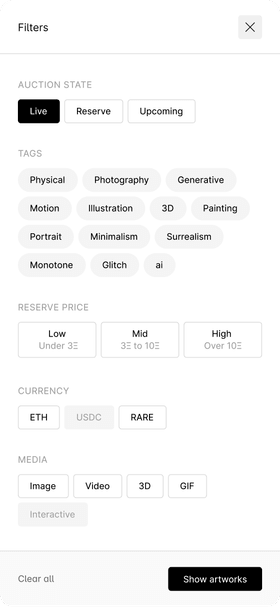
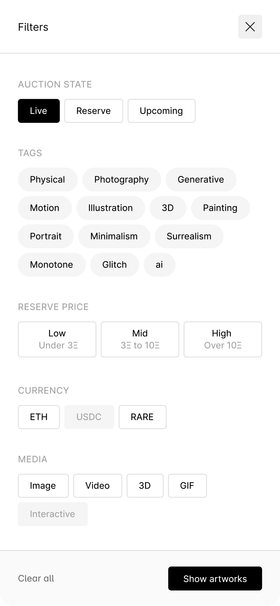
SuperRare: sharper filters phone (3x, full colour)

diff --git a/site/superrare.html b/site/superrare.html
@@ -327,7 +327,7 @@
       <img class="" style="--x:50%;--y:0;top:8%;height:92%;border-radius:1% 1% 0 0 / 1.07% 1.07% 0 0" src="img/sr2/s9-explore-1x.jpg?v=2" srcset="img/sr2/s9-explore-1x.jpg?v=2 800w, img/sr2/s9-explore-2x.jpg?v=2 2400w" sizes="(max-width: 640px) 90vw, 42vw" alt="Explore with filters" loading="lazy" decoding="async">
     </div>
     <div class="media-pair">
-      <div class="pn pn--half"><img class="" style="--x:50%;--y:50%;height:82%" src="img/sr2/s9-filters-1x.png" srcset="img/sr2/s9-filters-1x.png 280w, img/sr2/s9-filters-2x.png 560w" sizes="(max-width: 640px) 90vw, 50vw" alt="Explore filters on mobile" loading="lazy" decoding="async"></div>
+      <div class="pn pn--half"><img class="" style="--x:50%;--y:50%;height:82%" src="img/sr2/s9-filters-1x.png?v=2" srcset="img/sr2/s9-filters-1x.png?v=2 280w, img/sr2/s9-filters-2x.png?v=2 840w" sizes="(max-width: 640px) 50vw, 17vw" alt="Explore filters on mobile" loading="lazy" decoding="async"></div>
       <div class="pn pn--half"><div class="notif" style="--x:50%;--y:50%;width:63.9%;aspect-ratio:311 / 193.73"><span class="notif__avatar" aria-hidden="true"><img src="img/sr2/s9-avatar.png" alt=""><i></i></span><img class="notif__card" src="img/sr2/s9-notif-1x.png?v=2" srcset="img/sr2/s9-notif-1x.png?v=2 506w, img/sr2/s9-notif-2x.png?v=2 1012w" sizes="(max-width: 640px) 75vw, 24vw" alt="Notifications for offers and bids" loading="lazy" decoding="async"></div></div>
     </div>
     <!-- Gallery: Emi Kusano's work with a collector pill; a tap opens the artwork card (Figma group 483730) -->
